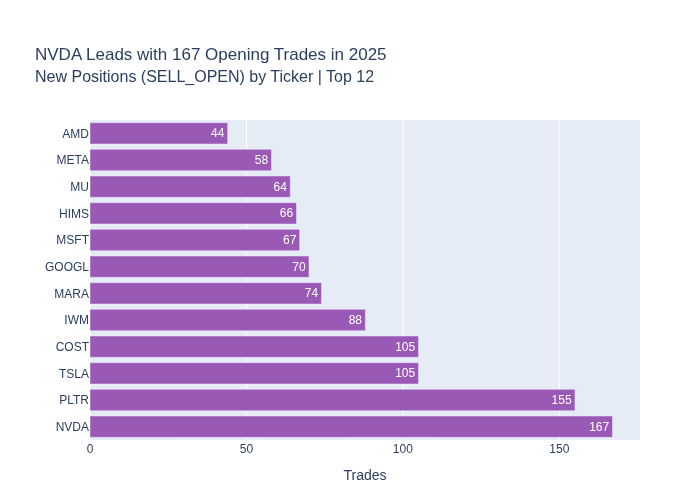
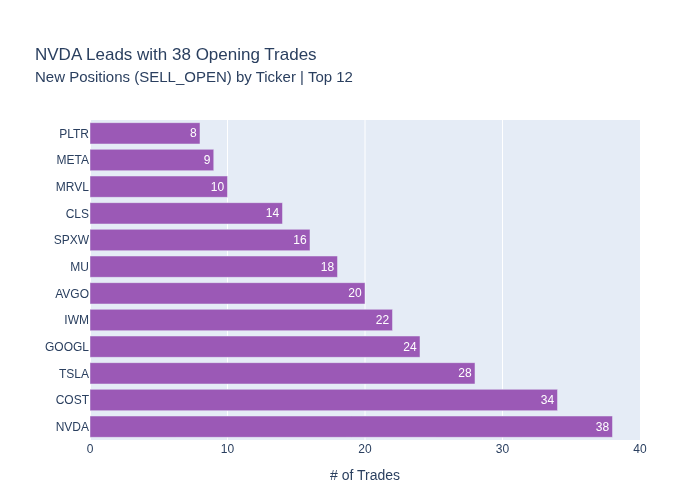
Add sample charts and GitHub Actions CI pipeline
Charts:
- 9 PNG charts generated from synthetic data (narrative-accurate, no real P&L)
- generate_sample_charts.py committed for reproducibility
- options-analysis/README.md updated with inline image previews

CI (.github/workflows/ci.yml):
- lint: ruff + ast.parse syntax check on all .py files
- security: verify .env not committed, scan for hardcoded secret patterns
- screener-dry-run: dependency install + import validation smoke test

Root README: added CI badge

https://claude.ai/code/session_01QuXixGBPTVYBoPhh15tNv5

diff --git a/options-analysis/generate_sample_charts.py b/options-analysis/generate_sample_charts.py
@@ -1,0 +1,265 @@
+"""
+generate_sample_charts.py
+
+Generates sample charts for portfolio display using synthetic data that
+reflects the narrative pattern in insights_report.md (win rates, trend
+direction, ticker/strategy mix). Actual P&L figures are not used.
+
+Run:
+    python generate_sample_charts.py
+Output: charts/ directory (9 PNG files)
+"""
+
+import os
+import pandas as pd
+import plotly.graph_objects as go
+from plotly.subplots import make_subplots
+
+OUT_DIR = "charts"
+os.makedirs(OUT_DIR, exist_ok=True)
+
+# ── Synthetic monthly P&L (index = relative units, not real dollars) ──────────
+# Pattern from insights_report: ✅/❌ per month, H2 2025 strong, May 2026 best
+MONTHS = [
+    "2025-01", "2025-02", "2025-03", "2025-04", "2025-05", "2025-06",
+    "2025-07", "2025-08", "2025-09", "2025-10", "2025-11", "2025-12",
+    "2026-01", "2026-02", "2026-03", "2026-04", "2026-05",
+]
+# Relative performance (sign matches ✅/❌; magnitude reflects narrative)
+MONTHLY_REL = [
+    42, -18, 35, -55, 28, 31,   # 2025 H1: April tariff drawdown
+    -12, 8, 48, 95, 62, 71,     # 2025 H2: Q4 dominant
+    88, -45, 72, 41, 130,       # 2026: MSFT blow-up Feb, May all-time best
+]
+
+monthly = pd.DataFrame({"month": MONTHS, "pnl": MONTHLY_REL})
+monthly["cum_pnl"] = monthly["pnl"].cumsum()
+monthly["label"] = monthly["month"].apply(lambda m: m[-2:] + "'" + m[2:4])
+
+# ── Ticker P&L (relative) ─────────────────────────────────────────────────────
+TICKER_PNL = {
+    "COST": 210, "NVDA": 175, "MRVL": 88, "AVGO": 72, "IWM": 65,
+    "MU": 58, "GOOGL": 52, "SPXW": 48, "CLS": 44, "TSLA": 31,
+    "CRWD": -22, "PLTR": -28, "EWY": -19, "NFLX": -68, "MSFT": -95,
+}
+und_s = pd.Series(TICKER_PNL).sort_values()
+top_winner = und_s.index[-1]
+top_loser  = und_s.index[0]
+top_combo  = pd.concat([und_s.head(4), und_s.tail(10)])
+
+# ── Ticker open trade counts ──────────────────────────────────────────────────
+TICKER_FREQ = {
+    "NVDA": 38, "COST": 34, "TSLA": 28, "GOOGL": 24, "IWM": 22,
+    "AVGO": 20, "MU": 18, "SPXW": 16, "CLS": 14, "MRVL": 10, "META": 9, "PLTR": 8,
+}
+freq = pd.Series(TICKER_FREQ).sort_values(ascending=False)
+
+# ── Quarterly ─────────────────────────────────────────────────────────────────
+QUARTERS = ["2025Q1", "2025Q2", "2025Q3", "2025Q4", "2026Q1", "2026Q2"]
+QPNL     = [59, -27, 56, 228, 115, 171]
+qtr = pd.DataFrame({"quarter": QUARTERS, "pnl": QPNL})
+qtr["cum_pnl"] = qtr["pnl"].cumsum()
+
+bar_colors = lambda vals: ["#e74c3c" if v < 0 else "#00d4a8" for v in vals]
+
+
+def _fmt(v):
+    sign = "+" if v >= 0 else ""
+    return f"{sign}{v}"
+
+
+# ── Chart 1: Monthly P&L + Cumulative ────────────────────────────────────────
+fig1 = make_subplots(rows=2, cols=1, shared_xaxes=True,
+                     row_heights=[0.6, 0.4], vertical_spacing=0.08,
+                     subplot_titles=("Monthly P&L", "Cumulative P&L"))
+fig1.add_trace(go.Bar(
+    x=monthly["label"], y=monthly["pnl"],
+    marker_color=bar_colors(monthly["pnl"]),
+    text=[_fmt(v) for v in monthly["pnl"]],
+    textposition="outside", textfont=dict(size=10),
+    width=0.55, showlegend=False
+), row=1, col=1)
+fig1.add_trace(go.Scatter(
+    x=monthly["label"], y=monthly["cum_pnl"],
+    mode="lines+markers",
+    line=dict(color="#f39c12", width=3), marker=dict(size=8),
+    fill="tozeroy", fillcolor="rgba(243,156,18,0.15)", showlegend=False
+), row=2, col=1)
+fig1.update_layout(
+    title={"text": "Cumulative P&L — Jan 2025 to May 2026<br>"
+                   "<span style='font-size:15px;font-weight:normal;'>All Accounts | 78% Monthly Win Rate (14/18 months)</span>"},
+    height=600, margin=dict(t=100)
+)
+fig1.update_yaxes(title_text="P&L (relative)", row=1, col=1)
+fig1.update_yaxes(title_text="Cumul. (relative)", row=2, col=1)
+fig1.update_xaxes(title_text="Month", row=2, col=1)
+fig1.write_image(f"{OUT_DIR}/chart1_monthly_pnl.png")
+print("✅ chart1")
+
+# ── Chart 2: Ticker P&L ───────────────────────────────────────────────────────
+fig2 = go.Figure(go.Bar(
+    x=top_combo.values,
+    y=[f"  {t}" for t in top_combo.index],
+    orientation="h",
+    marker_color=bar_colors(top_combo.values),
+    text=[_fmt(v) for v in top_combo.values],
+    textposition="auto", textfont=dict(size=11)
+))
+fig2.update_layout(
+    title={"text": f"{top_winner} Leads Gains; {top_loser} Biggest Drag<br>"
+                   "<span style='font-size:15px;font-weight:normal;'>Net P&L by Ticker | Top 10 Winners + 4 Losers (relative units)</span>"},
+    xaxis=dict(title_text="Net P&L (relative)"),
+    height=700, margin=dict(l=100, r=80, t=120, b=60)
+)
+fig2.write_image(f"{OUT_DIR}/chart2_ticker_pnl.png")
+print("✅ chart2")
+
+# ── Chart 3: PUT vs CALL donut ────────────────────────────────────────────────
+put_share, call_share = 76, 24
+fig3 = go.Figure(go.Pie(
+    labels=["PUT", "CALL"], values=[put_share, call_share],
+    hole=0.4, marker_colors=["#00d4a8", "#3498db"],
+    textinfo="label+percent", textfont_size=14, pull=[0.03, 0.03]
+))
+fig3.update_layout(
+    title={"text": f"PUT Spreads Drive {put_share}% of Gross P&L<br>"
+                   "<span style='font-size:15px;font-weight:normal;'>Primary strategy: short put credit spreads</span>"},
+    legend=dict(orientation="v", x=1.0)
+)
+fig3.write_image(f"{OUT_DIR}/chart3_put_vs_call.png")
+print("✅ chart3")
+
+# ── Chart 4: Monthly trade count ─────────────────────────────────────────────
+TRADE_COUNTS = [14, 11, 16, 8, 13, 15, 10, 12, 17, 22, 19, 20, 23, 9, 18, 15, 21]
+tc = pd.DataFrame({"label": monthly["label"], "count": TRADE_COUNTS})
+fig4 = go.Figure(go.Bar(
+    x=tc["label"], y=tc["count"],
+    marker_color="#3498db",
+    text=tc["count"], textposition="outside", width=0.6
+))
+fig4.update_layout(
+    title={"text": "New Positions (SELL_OPEN) per Month<br>"
+                   "<span style='font-size:15px;font-weight:normal;'>Jan 2025 – May 2026 | All Accounts</span>"},
+    xaxis=dict(title_text="Month"),
+    yaxis=dict(title_text="# of New Positions")
+)
+fig4.write_image(f"{OUT_DIR}/chart4_trade_count.png")
+print("✅ chart4")
+
+# ── Chart 5: Account P&L ─────────────────────────────────────────────────────
+accounts  = ["Account A", "Account B", "Account C", "Account D"]
+acct_pnl  = [220, 175, 130, 95]
+fig5 = go.Figure(go.Bar(
+    x=accounts, y=acct_pnl,
+    marker_color=["#3498db", "#9b59b6", "#e67e22", "#1abc9c"],
+    text=[_fmt(v) for v in acct_pnl],
+    textposition="inside", textfont=dict(size=13, color="white"), width=0.45
+))
+fig5.update_layout(
+    title={"text": "P&L by Account<br>"
+                   "<span style='font-size:15px;font-weight:normal;'>Jan 2025 – May 2026 | Relative units</span>"},
+    xaxis=dict(title_text="Account"),
+    yaxis=dict(title_text="Net P&L (relative)"),
+    margin=dict(l=80, r=40, t=120, b=60)
+)
+fig5.write_image(f"{OUT_DIR}/chart5_account_pnl.png")
+print("✅ chart5")
+
+# ── Chart 6: Weekday P&L ─────────────────────────────────────────────────────
+wdays   = ["Monday", "Tuesday", "Wednesday", "Thursday", "Friday"]
+wpnl    = [42, 65, 118, 97, 38]
+fig6 = go.Figure(go.Bar(
+    x=wdays, y=wpnl,
+    marker_color=bar_colors(wpnl),
+    text=[_fmt(v) for v in wpnl], textposition="outside", width=0.5
+))
+fig6.update_layout(
+    title={"text": "Wednesday & Thursday Are Best Trading Days<br>"
+                   "<span style='font-size:15px;font-weight:normal;'>Net P&L by Day of Week | All Accounts</span>"},
+    xaxis=dict(title_text="Day of Week"),
+    yaxis=dict(title_text="Net P&L (relative)")
+)
+fig6.write_image(f"{OUT_DIR}/chart6_weekday_pnl.png")
+print("✅ chart6")
+
+# ── Chart 7: Ticker frequency ─────────────────────────────────────────────────
+fig7 = go.Figure(go.Bar(
+    x=freq.values,
+    y=[f"  {t}" for t in freq.index],
+    orientation="h",
+    marker_color="#9b59b6",
+    text=freq.values,
+    textposition="inside", textfont=dict(size=12, color="white")
+))
+fig7.update_layout(
+    title={"text": f"{freq.index[0]} Leads with {freq.iloc[0]} Opening Trades<br>"
+                   "<span style='font-size:15px;font-weight:normal;'>New Positions (SELL_OPEN) by Ticker | Top 12</span>"},
+    xaxis=dict(title_text="# of Trades"),
+    height=500, margin=dict(l=90, r=60, t=120, b=60)
+)
+fig7.write_image(f"{OUT_DIR}/chart7_ticker_frequency.png")
+print("✅ chart7")
+
+# ── Chart 8: Quarterly P&L trajectory ────────────────────────────────────────
+fig8 = make_subplots(rows=2, cols=1, shared_xaxes=True,
+                     row_heights=[0.6, 0.4], vertical_spacing=0.08,
+                     subplot_titles=("Quarterly P&L", "Cumulative P&L"))
+fig8.add_trace(go.Bar(
+    x=qtr["quarter"], y=qtr["pnl"],
+    marker_color=bar_colors(qtr["pnl"]),
+    text=[_fmt(v) for v in qtr["pnl"]],
+    textposition="outside", width=0.5, showlegend=False
+), row=1, col=1)
+fig8.add_trace(go.Scatter(
+    x=qtr["quarter"], y=qtr["cum_pnl"],
+    mode="lines+markers",
+    line=dict(color="#f39c12", width=3), marker=dict(size=8),
+    fill="tozeroy", fillcolor="rgba(243,156,18,0.15)", showlegend=False
+), row=2, col=1)
+fig8.update_layout(
+    title={"text": "Quarterly P&L Trajectory<br>"
+                   "<span style='font-size:15px;font-weight:normal;'>Consistent growth Q1 2025 → Q2 2026 | 2026 Q2 best quarter on record</span>"}
+)
+fig8.update_yaxes(title_text="P&L (relative)", row=1, col=1)
+fig8.update_yaxes(title_text="Cumul. (relative)", row=2, col=1)
+fig8.write_image(f"{OUT_DIR}/chart8_quarterly_pnl.png")
+print("✅ chart8")
+
+# ── Chart 9: Ticker efficiency scatter ───────────────────────────────────────
+EFFICIENCY = {
+    "COST": (34, 210), "NVDA": (38, 175), "MRVL": (10, 88),
+    "AVGO": (20, 72),  "IWM":  (22, 65),  "MU":   (18, 58),
+    "GOOGL":(24, 52),  "SPXW": (16, 48),  "CLS":  (14, 44),
+    "TSLA": (28, 31),  "PLTR": (8, -28),  "MSFT": (12, -95),
+    "NFLX": (10, -68), "CRWD": (7, -22),
+}
+eff = pd.DataFrame(
+    [(t, c, p) for t, (c, p) in EFFICIENCY.items()],
+    columns=["ticker", "trade_count", "total_pnl"]
+)
+eff["pnl_per_trade"] = eff["total_pnl"] / eff["trade_count"]
+
+fig9 = go.Figure(go.Scatter(
+    x=eff["trade_count"], y=eff["pnl_per_trade"],
+    mode="markers+text",
+    text=eff["ticker"], textposition="top center", textfont=dict(size=11),
+    marker=dict(
+        size=[max(10, min(45, abs(v) / 4)) for v in eff["total_pnl"]],
+        color=["#e74c3c" if v < 0 else "#00d4a8" for v in eff["total_pnl"]],
+        opacity=0.85, line=dict(width=1, color="white"),
+    )
+))
+fig9.add_hline(y=0, line_dash="dash", line_color="gray", opacity=0.5)
+fig9.update_layout(
+    title={"text": "Ticker Efficiency: P&L per Trade vs Frequency<br>"
+                   "<span style='font-size:15px;font-weight:normal;'>Bubble size = |Total P&L| · green = profit · red = loss</span>"},
+    xaxis=dict(title_text="Number of Trades (SELL_OPEN)"),
+    yaxis=dict(title_text="P&L per Trade (relative)"),
+    height=620, margin=dict(l=80, r=60, t=120, b=60)
+)
+fig9.write_image(f"{OUT_DIR}/chart9_ticker_efficiency.png")
+print("✅ chart9")
+
+print(f"\n✅  9 sample charts saved to ./{OUT_DIR}/")
+print("   Note: charts use synthetic data reflecting narrative patterns.")
+print("   Actual P&L figures maintained in private repository.")

diff --git a/options-analysis/README.md b/options-analysis/README.md
@@ -12,8 +12,9 @@ options-analysis/
 ├── data/
 │   ├── Accounts_History*.csv    # Raw Fidelity export files (add manually, do NOT commit)
 │   └── options_cleaned.csv      # Auto-generated by analysis.py
-├── charts/                      # Auto-generated PNG charts (9 total)
+├── charts/                      # PNG charts (9 total) — sample set committed
 ├── analysis.py                  # Full pipeline: load → clean → analyze → visualize
+├── generate_sample_charts.py    # Generates charts/ from synthetic data (for display)
 ├── insights_report.md           # Key findings & action plan
 └── README.md
 ```
@@ -51,7 +52,29 @@ python analysis.py
 
 ---
 
-## Charts Generated
+## Sample Charts
+
+> Charts below are generated from synthetic data that reflects the narrative patterns in
+> [`insights_report.md`](insights_report.md). Actual P&L figures are in a private repository.
+> To generate from your own data, run `python analysis.py` after adding CSV exports to `data/`.
+
+### Monthly P&L + Cumulative Growth
+![Monthly P&L](charts/chart1_monthly_pnl.png)
+
+### Net P&L by Ticker
+![Ticker P&L](charts/chart2_ticker_pnl.png)
+
+### Quarterly Trajectory
+![Quarterly P&L](charts/chart8_quarterly_pnl.png)
+
+### Ticker Efficiency (P&L per Trade vs Frequency)
+![Ticker Efficiency](charts/chart9_ticker_efficiency.png)
+
+### Strategy Split — PUT vs CALL
+![PUT vs CALL](charts/chart3_put_vs_call.png)
+
+<details>
+<summary>All 9 charts</summary>
 
 | File | Description |
 |---|---|
@@ -63,4 +86,6 @@ python analysis.py
 | `chart6_weekday_pnl.png` | P&L by day of week |
 | `chart7_ticker_frequency.png` | New positions opened by ticker |
 | `chart8_quarterly_pnl.png` | Quarterly P&L bars + cumulative growth line |
-| `chart9_ticker_efficiency.png` | P&L per trade vs trade frequency scatter (ticker efficiency) |
+| `chart9_ticker_efficiency.png` | P&L per trade vs trade frequency scatter |
+
+</details>

diff --git a/README.md b/README.md
@@ -2,6 +2,7 @@
 
 **End-to-end automated pipeline for selling vertical put credit spreads — from screening to execution to position management.**
 
+[![CI](https://github.com/hbchoi0917/trading/actions/workflows/ci.yml/badge.svg)](https://github.com/hbchoi0917/trading/actions/workflows/ci.yml)
 [![Python](https://img.shields.io/badge/Python-3.11+-blue.svg)](https://www.python.org/)
 [![Tastytrade](https://img.shields.io/badge/Tastytrade-SDK%20v12-purple.svg)](https://tastytrade.com)
 [![License](https://img.shields.io/badge/license-Personal%20Use-red.svg)](LICENSE)
